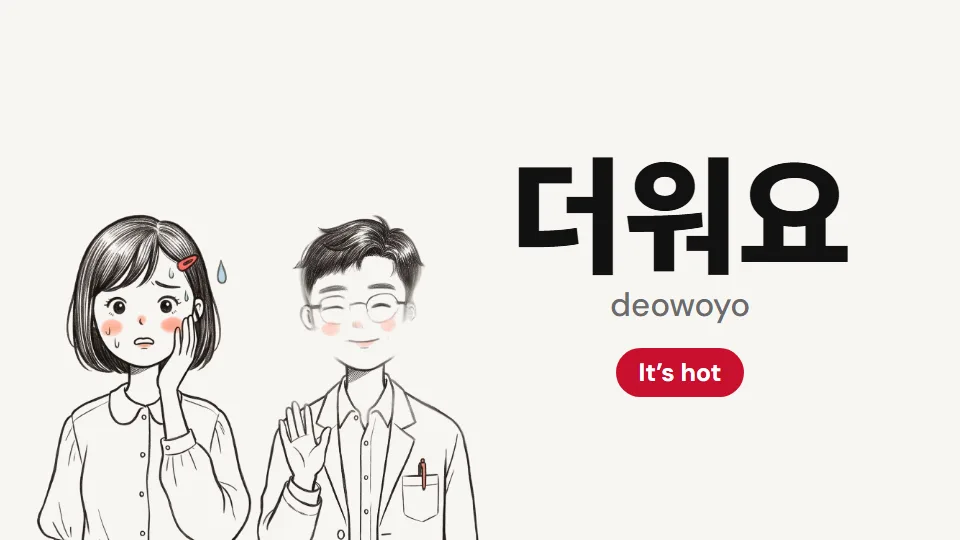
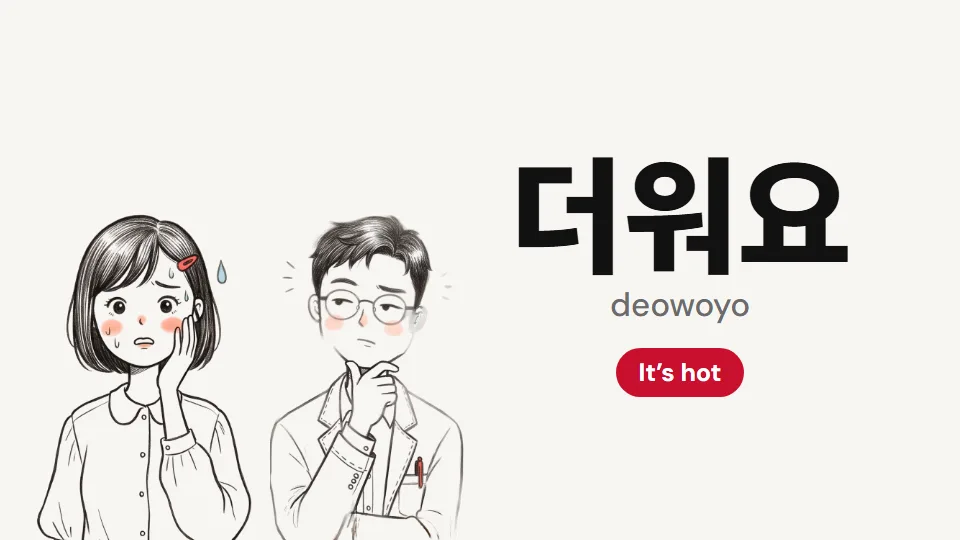
Basics thumbnails: vary B's pose per post
B's thumbnail pose now reads the situation and never mirrors A's: 9 confused, 7 curious,
6 happy (was almost always waving). In the videos B keeps the reaction -> approving flow
(scene ending), so cast.b is used by the thumbnail only.

Changed region(s): [[0.25, 0.3852, 0.5, 1.0]]

diff --git a/remotion/KoreanBasic/TemplateVideoV2.tsx b/remotion/KoreanBasic/TemplateVideoV2.tsx
@@ -216,8 +216,9 @@ function OpeningScene({ scene, cast }: { scene: SceneData; cast?: Cast }) {
   const wrongOut = interpolate(f, [T.correct - 6, T.correct + 4], [1, 0], clamp)
   const correctPop = usePop(T.correct + 2, 14)
 
-  // 끝 표정은 글마다 고른 배역 표정(cast)이 있으면 그것 — 없으면 장면 데이터의 ending
-  const bExpr: Expression = f < T.reaction ? 'neutral' : f < T.smile ? scene.reaction.expression : (cast?.b ?? scene.ending.expression)
+  // B 는 영상에서 반응(당황) → 정답 뒤 끄덕 · 미소(장면 데이터의 ending)로 흐른다.
+  // cast.b 는 목록 썸네일 한 장에서 상황을 보여 주는 표정이라 영상 끝 장면에는 쓰지 않는다
+  const bExpr: Expression = f < T.reaction ? 'neutral' : f < T.smile ? scene.reaction.expression : scene.ending.expression
   const bSince = f < T.reaction ? f : f < T.smile ? f - T.reaction : f - T.smile
   const aExpr: Expression = f < T.reaction ? 'neutral' : f < T.correct ? 'awkward' : (cast?.a ?? 'smile')
   const aSince = f < T.correct ? f : f - T.correct

diff --git a/remotion/KoreanBasic/scene/Characters.tsx b/remotion/KoreanBasic/scene/Characters.tsx
@@ -73,5 +73,6 @@ export function Character({
   )
 }
 
-/** 글마다 고르는 배역 표정 — videos.json 의 cast. 표정이 그림(emotionOf)까지 정한다 */
+/** 글마다 고르는 배역 표정 — videos.json 의 cast. 표정이 그림(emotionOf)까지 정한다.
+ *  a 는 영상 끝 장면과 썸네일, b 는 썸네일에만 쓴다(영상의 B 는 반응 → 장면 ending 으로 흐른다) */
 export type Cast = { a: Expression; b: Expression; aGesture?: Gesture; bGesture?: Gesture }
